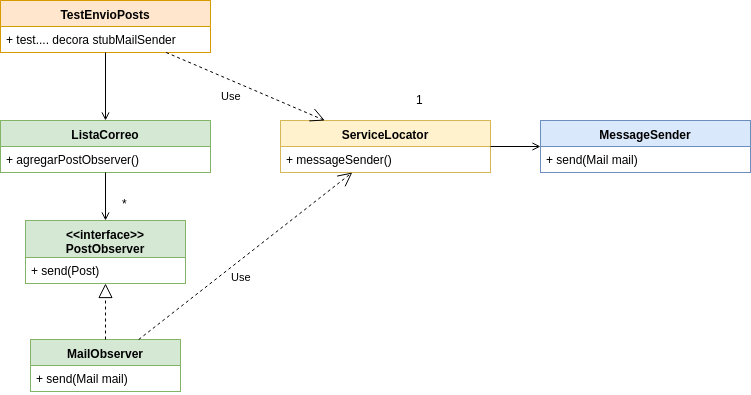
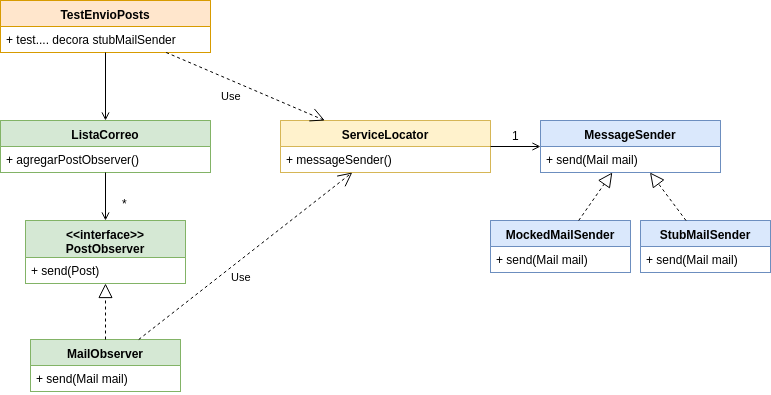
Adding Stubs and MockedMailSenders

diff --git a/README.md b/README.md
@@ -16,6 +16,9 @@ class TestEnvioPosts {
 
 	@Before
 	def void init() {
+		...
+		stubMailSender = new StubMailSender
+		...
 		/** ************************************************/
 		/** Configuramos ServiceLocator para tener el stub */	
 		ServiceLocator.instance.messageSender = stubMailSender
